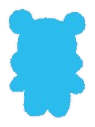
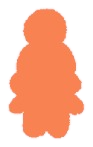
驚きと期待の名前を入れ替え、トップの感情たちをグレーのシルエットに

diff --git a/emotions.html b/emotions.html
@@ -345,7 +345,7 @@ footer.night{background:#191C5D;color:rgba(237,235,255,.7);margin-top:0;border-t
         <a class="btn light" href="./#character">ぺろっぺに会いにいく</a>
         <a class="btn ghost" href="./#play">あそびばへ</a>
       </div>
-      <p class="note">※ 感情の輪は、R. プルチックの「感情の輪」（1980）をもとに、ぺろっぺの世界向けにやさしく言いかえたものです。<br>並び順はぺろっぺのイラストに合わせています（原典では「驚き」と「期待」の位置が入れかわります）。</p>
+      <p class="note">※ 感情の輪は、R. プルチックの「感情の輪」（1980）をもとに、ぺろっぺの世界向けにやさしく言いかえたものです。</p>
     </div>
   </div>
 </section>
@@ -360,16 +360,16 @@ const reduce = matchMedia("(prefers-reduced-motion: reduce)").matches;
 try { if ("scrollRestoration" in history) history.scrollRestoration = "manual"; } catch(e){}
 const toTop = () => { if (!location.hash) { window.scrollTo({ top: 0, left: 0, behavior: "instant" }); document.documentElement.scrollTop = 0; document.body.scrollTop = 0; } };
 toTop(); addEventListener("load", toTop); addEventListener("pageshow", toTop); [60, 250, 600].forEach(t => setTimeout(toTop, t));
-/* イラストと同じ並び（時計回り）：喜び・信頼・恐れ・期待・悲しみ・嫌悪・怒り・驚き */
+/* イラストと同じ並び（時計回り）：喜び・信頼・恐れ・驚き・悲しみ・嫌悪・怒り・期待 */
 const EMO = [
   {k:"joy", ja:"喜び", en:"JOY", c:"#FFDA4D", lv:["平穏","喜び","恍惚"], role:"大切なものを手に入れたときにやってくる感情。「これをもっと」と、心を前に向けてくれます。"},
   {k:"trust", ja:"信頼", en:"TRUST", c:"#8CD15C", lv:["容認","信頼","敬愛"], role:"だれかや何かと、つながりたいときの感情。安心して、身をあずけられるようにしてくれます。"},
   {k:"fear", ja:"恐れ", en:"FEAR", c:"#6CBD54", lv:["不安","恐れ","恐怖"], role:"危ないものに気づいたときの感情。立ち止まって、自分を守ろうとしてくれます。"},
-  {k:"anticipation", ja:"期待", en:"ANTICIPATION", c:"#2BBBED", lv:["関心","期待","警戒"], role:"これから起きることに向かう感情。先を見て、準備をさせてくれます。"},
+  {k:"surprise", ja:"驚き", en:"SURPRISE", c:"#2BBBED", lv:["放心","驚き","驚嘆"], role:"思ってもみないことが起きたときの感情。いま起きていることに、目を向けさせてくれます。"},
   {k:"sadness", ja:"悲しみ", en:"SADNESS", c:"#3D85CD", lv:["哀愁","悲しみ","悲嘆"], role:"大切なものを失ったときの感情。ゆっくり立ち止まり、それが大切だったと教えてくれます。"},
   {k:"disgust", ja:"嫌悪", en:"DISGUST", c:"#D2A3F3", lv:["退屈","嫌悪","強い嫌悪"], role:"合わないものに出会ったときの感情。自分に必要ないものから、距離をとらせてくれます。"},
   {k:"anger", ja:"怒り", en:"ANGER", c:"#FF625B", lv:["苛立ち","怒り","激怒"], role:"大切なものや境界がおびやかされたときの感情。自分を守るための力をくれます。"},
-  {k:"surprise", ja:"驚き", en:"SURPRISE", c:"#F88252", lv:["放心","驚き","驚嘆"], role:"思ってもみないことが起きたときの感情。いま起きていることに、目を向けさせてくれます。"}
+  {k:"anticipation", ja:"期待", en:"ANTICIPATION", c:"#F88252", lv:["関心","期待","警戒"], role:"これから起きることに向かう感情。先を見て、準備をさせてくれます。"}
 ];
 /* となり同士がまざると（プルチックの一次の混合） */
 const DYAD = { "joy+trust":"愛", "fear+trust":"服従", "fear+surprise":"畏怖", "sadness+surprise":"拒絶", "disgust+sadness":"後悔", "anger+disgust":"軽蔑", "anger+anticipation":"攻撃性", "anticipation+joy":"楽観",

diff --git a/index.html b/index.html
@@ -175,7 +175,7 @@ main,header,footer{position:relative;z-index:1}
 .emo-panel h3{font-size:clamp(20px,2.2vw,26px);font-weight:900;color:var(--navy)}
 .emo-row{display:grid;grid-template-columns:repeat(8,1fr);gap:clamp(6px,1.4vw,18px);width:100%;align-items:end}
 .emo-row figure{margin:0;display:grid;justify-items:center;gap:6px}
-.emo-row img{height:clamp(44px,6vw,80px);width:auto;opacity:.55;filter:saturate(.7)}
+.emo-row img{height:clamp(44px,6vw,80px);width:auto;filter:brightness(0) invert(.72)}
 .emo-row figcaption{font-size:12px;font-weight:700;color:#6B6B6B}
 .emo-more{position:relative;z-index:3;margin-top:4px}
 .emo-panel .lbl{position:relative;inset:auto;font-size:clamp(20px,2.6vw,32px)}
@@ -540,11 +540,11 @@ const EMO = [
   {k:"joy",ja:"喜び",c:"#FFDA4D",say:"♪"},
   {k:"trust",ja:"信頼",c:"#8CD15C",say:"…ね"},
   {k:"fear",ja:"恐れ",c:"#6CBD54",say:"ひっ"},
-  {k:"anticipation",ja:"期待",c:"#2BBBED",say:"まだ？"},
+  {k:"surprise",ja:"驚き",c:"#2BBBED",say:"！？"},
   {k:"sadness",ja:"悲しみ",c:"#3D85CD",say:"…"},
   {k:"disgust",ja:"嫌悪",c:"#D2A3F3",say:"うぇ"},
   {k:"anger",ja:"怒り",c:"#FF625B",say:"ムッ"},
-  {k:"surprise",ja:"驚き",c:"#F88252",say:"！？"}
+  {k:"anticipation",ja:"期待",c:"#F88252",say:"まだ？"}
 ];
 
 /* ---------- opening ---------- */
@@ -613,7 +613,7 @@ function fvTick(){ if (reduce) return; cx += (mx-cx)*.05; cy += (my-cy)*.05; fvP
 
 /* ---------- emotion row (coming soon) ---------- */
 const emoRow = document.getElementById("emoRow");
-EMO.forEach(e => { const f = document.createElement("figure"); f.innerHTML = `<img src="img/emo-${e.k}.png" alt="${e.ja}の感情のシルエット"><figcaption>${e.ja}</figcaption>`; emoRow.appendChild(f); });
+EMO.forEach(e => { const f = document.createElement("figure"); f.innerHTML = `<img src="img/emo-${e.k}.png" alt="感情のシルエット">`; emoRow.appendChild(f); });
 
 /* ---------- grass edges ---------- */
 function grassPath(seed){
